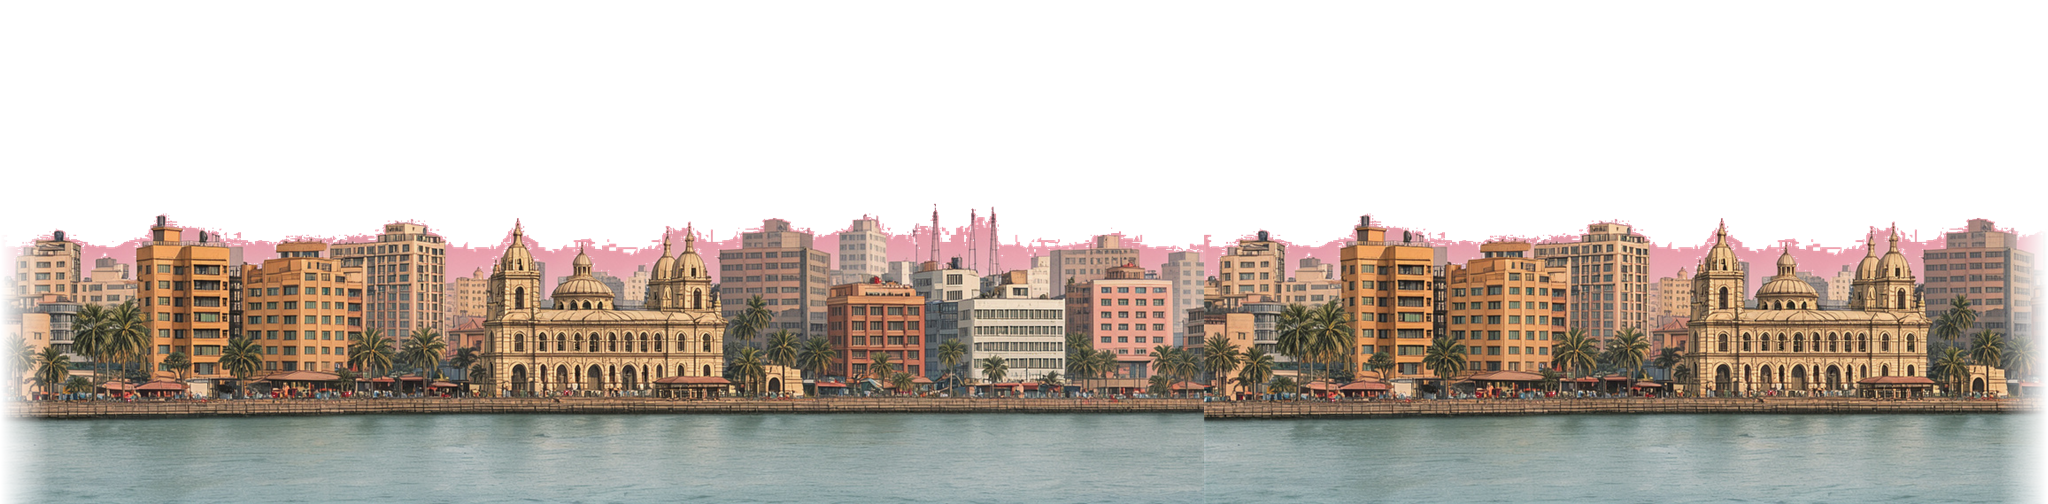
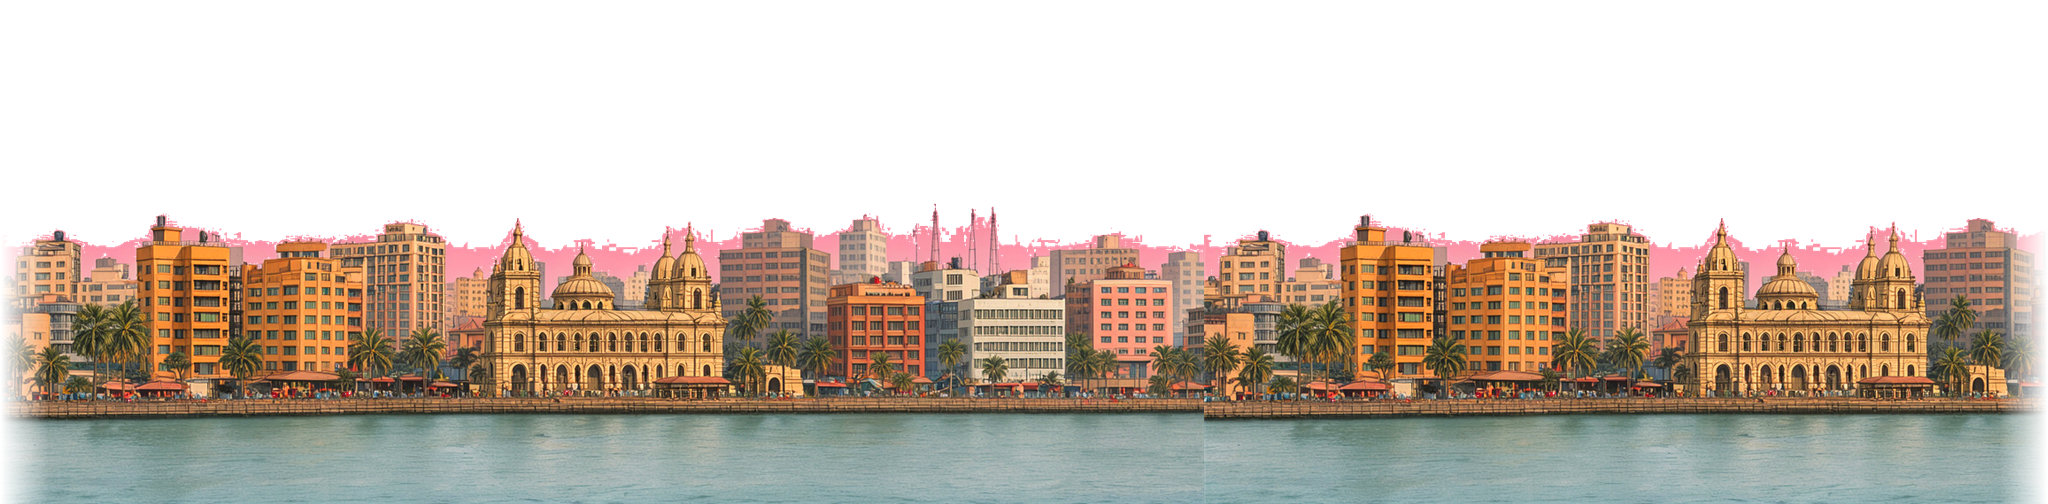
docs: session 5 progress log + VO audit; boost day skyline saturation

diff --git a/MUMBAI-PLAN.md b/MUMBAI-PLAN.md
@@ -211,3 +211,26 @@ Vidhan Bhavan, RBI tower, Sassoon Docks, Haji Ali dargah, Marine Drive curve.
   Mumbai equivalents; rival -> PUNERI MASALA.
 - Known risk: street-VO audio may still say Kannada/Bangalore words (249 WAVs, standing open
   decision). darshini engine kind name kept (label already says Irani Darshini).
+
+## Progress log (session 5) - commit 99fed31 + follow-ups
+- Phase 5 visual identity DONE. Skyline panoramas: 3 generated Mumbai-style sources
+  (art-deco curve, domed station, palms; magenta-keyed sky) -> chroma-key -> tile to
+  2048x504 -> 48px alpha edge fade -> art/sky/SKY-DAY/DUSK/NIGHT-01.png, registered under
+  existing SKY-* keys in art/index.json (zero engine changes). Real bug fixed: generated
+  "magenta" was actually pink (227,45,110); hue-based key (r-g>60 && b-g>15) now used.
+  Day panorama later boosted (saturation 1.45 in process-sky.ps1) to survive 70% fog wash.
+- BEST double-decker: new `decker` vehicle kind (procedural builder wrapping bus builder
+  `_t`; upper deck, window rows, roof slab, upper LED). Registered in vehicles/police/game
+  (+ mirrors). Verified: decker 4.22 m vs bus 3.31 m tall; renders with upper deck.
+- Rename sweep leftovers found and fixed in npc.js: cop-radio lines said Koramangala/
+  Hosur Rd/Eighty Feet Rd/lake; whitefield chatter said Marathahalli/Hebbal; goon line
+  "The lake is ours!". All swept to Bambai/Mumbai equivalents (see session-5 fix commit).
+- VO AUDIT (full, replaces the "249 WAVs" guess): most NPC dialogue is runtime TTS
+  (speakify hooks hud.say only; story dialogue is browser TTS). Street chatter/shouts are
+  pre-recorded WAVs gated by D.canPlay - NO TTS fallback. WAVs were recorded from the
+  pre-sweep text, so WAV audio and swept subtitles can disagree. Certain-stale groups:
+  radio-1..10 (cop radio), whitefield-1..4, ident-kempu/hale/silkboard (11), rj-kempu/*,
+  rj-silkboard/*, rj-hale-oldcity/coffee (7), ad-sites, darshini-1..4, nimsha-1..3,
+  lakecough-1..2 (~42 certain). Likely-stale (unverifiable without listening): vendor-1..13,
+  street-shout-1..13, delhi-1..9, pairs-1..4a/b, fan-1..6, rj-gully/hustle/all-news (~60).
+  Decision pending: leave as-is / text-only fix / TTS re-record (Windows SAPI possible).
